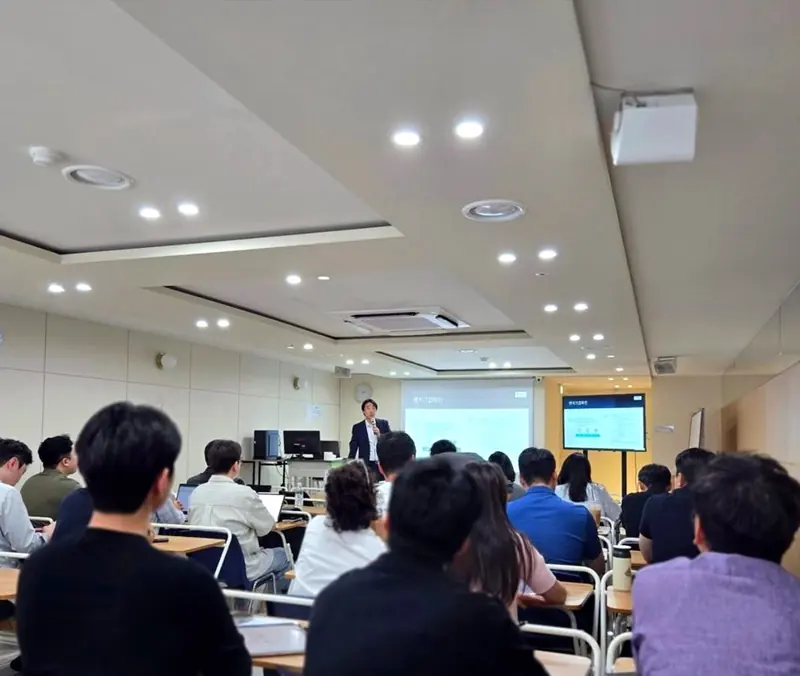
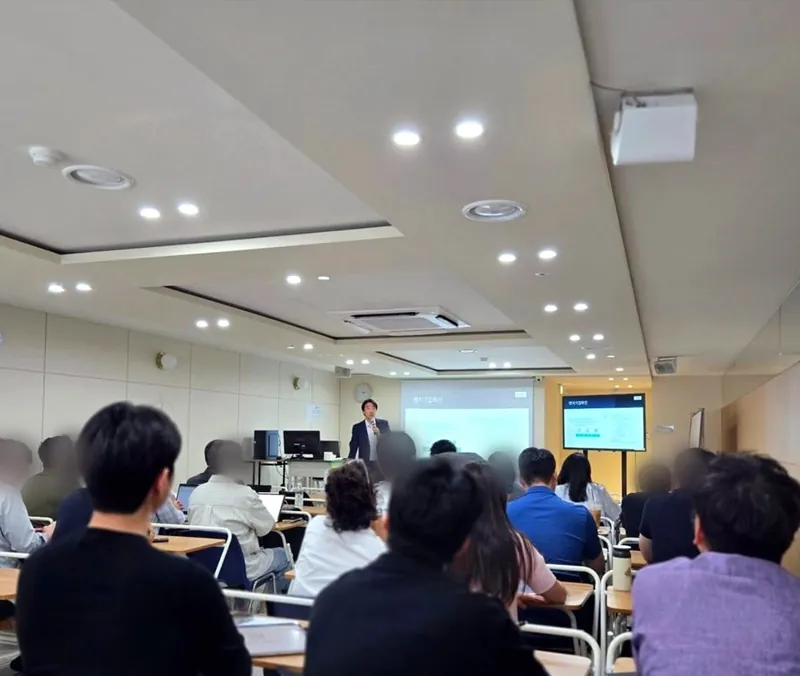
메인 페이지 세미나 링크를 10월 강의로 교체, SNS 연결, 세미나 사진 참석자 얼굴 블러
- "주요 세미나 내용 보기" 링크: 종료된 9/8 강의(class-0908) → 10/13 서울 세무조사 대응 전략
  (class-1013-kang, 대표 문의처 버전), 추적 라벨 vol03 → vol04
- SNS 설정 상수에 네이버 블로그(blog.naver.com/trinityone_)·인스타그램(trinity_one_official) 입력
  → 첫 화면 로고 옆과 푸터에 아이콘 표시, 새 탭으로 연결
- 세미나 사진 3장(seminar-6·7·8)의 참석자 얼굴 47곳을 타원 페더 블러 처리 (강사는 유지)
  원본 해상도에 적용한 뒤 800·480 jpg/webp 파생본을 같은 규격으로 다시 생성
- CLAUDE.md 사진 규칙에 세미나 사진 블러 기준과 파생본 재생성 절차 기록
- 로컬 검증: 데스크톱 1280px·모바일 390px 가로 넘침·리소스 404·JS 오류 없음, SNS 아이콘 노출 확인

Claude-Session: https://claude.ai/code/session_0174b2nQP2s2rs5M1Y1bKKbe

diff --git a/index.html b/index.html
@@ -42,8 +42,8 @@ var KAKAO_CHANNEL_NAME = '';
 
 /* [SLOT: SNS] P22 SNS 아이콘(푸터 + 첫 화면 로고 옆). P29: 값이 빈 채널의 아이콘은 숨고(누를 수 없는 버튼 노출 금지, 합의 결론 D4), 값을 넣은 채널만 보이며 새 탭으로 연결된다.
    예: https://blog.naver.com/아이디 · https://www.instagram.com/아이디/ */
-var NAVER_BLOG_URL = '';
-var INSTAGRAM_URL = '';
+var NAVER_BLOG_URL = 'https://blog.naver.com/trinityone_';
+var INSTAGRAM_URL = 'https://www.instagram.com/trinity_one_official/';
 
 /* [SLOT: SITE] P18 배포 주소(예: https://example.com/recruit/). 값이 있으면 og:url · canonical 태그를 넣는다. 비면 두 태그를 넣지 않는다. */
 var SITE_URL = 'https://trinityone.co.kr/';
@@ -2298,7 +2298,7 @@ var HERO_VIDEO_POSTER = 'assets/site/photo-quote.jpg';
             <li>가업상속공제</li><li>가업승계증여특례</li><li>법인전환</li><li>사내근로복지기금</li><li>의료 자회사 설립</li><li>자기주식</li><li>병의원 절세</li><li>벤처투자 소득공제</li><li>투자조합</li><li>가족법인</li><li>세무조사</li><li>회계감사</li><li>투자유치</li>
           </ul>
           <!-- 공개 강의 페이지: 최신 Vol.03 부산(facts.md 6절). Vol.02 서울은 https://hq1trinity-arch.github.io/trinity-lecture-seoul/ -->
-          <a class="ghost" href="https://trinityone.co.kr/class-0908/" target="_blank" rel="noopener" data-seminar="vol03">주요 세미나 내용 보기<svg width="16" height="16" viewBox="0 0 24 24" aria-hidden="true"><path fill="none" stroke="currentColor" stroke-width="2.4" stroke-linecap="round" stroke-linejoin="round" d="M7 17L17 7M9 7h8v8"/></svg></a>
+          <a class="ghost" href="https://trinityone.co.kr/class-1013-kang/" target="_blank" rel="noopener" data-seminar="vol04">주요 세미나 내용 보기<svg width="16" height="16" viewBox="0 0 24 24" aria-hidden="true"><path fill="none" stroke="currentColor" stroke-width="2.4" stroke-linecap="round" stroke-linejoin="round" d="M7 17L17 7M9 7h8v8"/></svg></a>
           <!-- P50(70절): 세미나 링크 바로 아래 카톡 CTA(다른 네 곳과 같은 규격 · 문구, data-cta=seminar, 고정 바 숨김 대상) -->
           <div class="cta-block sem-cta" data-hide-sticky>
             <a class="cta" href="#" data-cta="seminar"><svg width="20" height="20" viewBox="0 0 24 24" aria-hidden="true"><path fill="currentColor" d="M12 3C6.5 3 2 6.6 2 11c0 2.8 1.8 5.3 4.6 6.7l-1 3.6c-.1.4.3.7.6.5l4.3-2.8c.5.1 1 .1 1.5.1 5.5 0 10-3.6 10-8S17.5 3 12 3z"/></svg>트리니티원 멤버십 알아보기</a>

diff --git a/CLAUDE.md b/CLAUDE.md
@@ -62,6 +62,7 @@
 - 인물 사진은 **얼굴이 나오지 않는 컷**을 우선한다 (손·서류·공간·야경). 서구권 모델 이슈와 스톡 티를 동시에 피할 수 있다.
 - **강의·행사 사진은 강사와 참석자 얼굴을 반드시 블러 처리**한다 (타원 마스크 + 가장자리 페더로 자연스럽게).
 - 현재 사용 중: `photo-quote.jpg`(서울 야경·인용구 배경) / `photo-services.jpg`(손·서류) / `photo-process.jpg`(서명) / `photo-lecture.jpg`(강의 현장, 얼굴 블러 처리본)
+- 메인 리쿠르팅 페이지 세미나 사진(`assets/photos/seminar-6·7·8`)은 **참석자 얼굴만** 블러 처리했다 (강사는 사용자 요청으로 유지, 2026-09-28). 사진을 교체하면 원본 해상도에 블러를 넣은 뒤 `-800`·`-480` jpg/webp 파생본도 다시 만든다.
 - **사진 밴드는 서로 붙이지 않는다.** 다크 섹션(`#about`) 바로 뒤에 배너를 두면 사진이 겹쳐 보인다. 사이에 본문 섹션을 두고 최소 1,000px 이상 간격을 확보한다.
 
 ## 수치 표기 규칙
